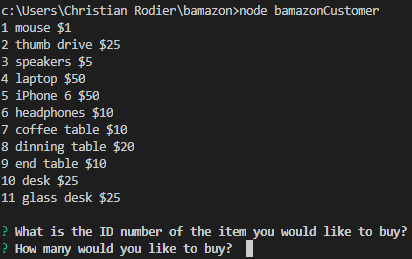
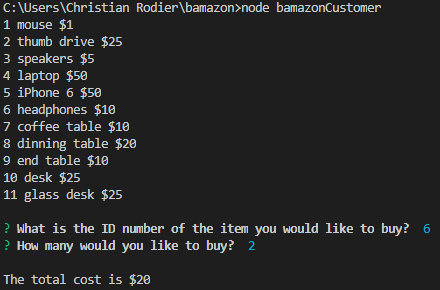
added picture to readme

Changed region(s): [[0.0, 0.0, 0.9903, 1.0], [0.9612, 0.7722, 0.9903, 0.8031]]

diff --git a/README.md b/README.md
@@ -9,6 +9,8 @@ Made in Node.JS & SQL
 
 ![alt text](screen-shot2.png)
 
-4. Bamazon will tell you the price & if the item you want is in stock
+4. Bamazon will tell you the price & if the item you want is in stock and the data base will updatel
+
+![alt text](screen-shot3.png)
 
 Happy Shopping!
